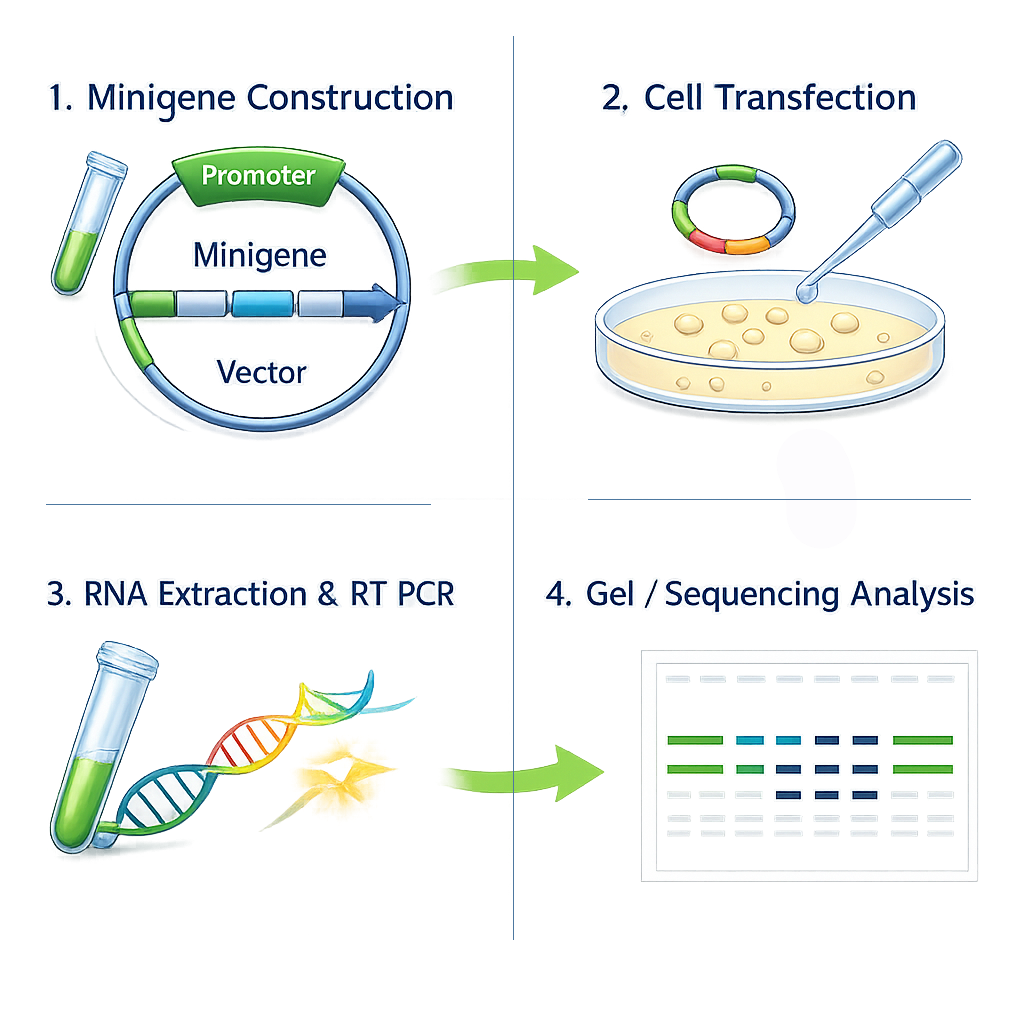
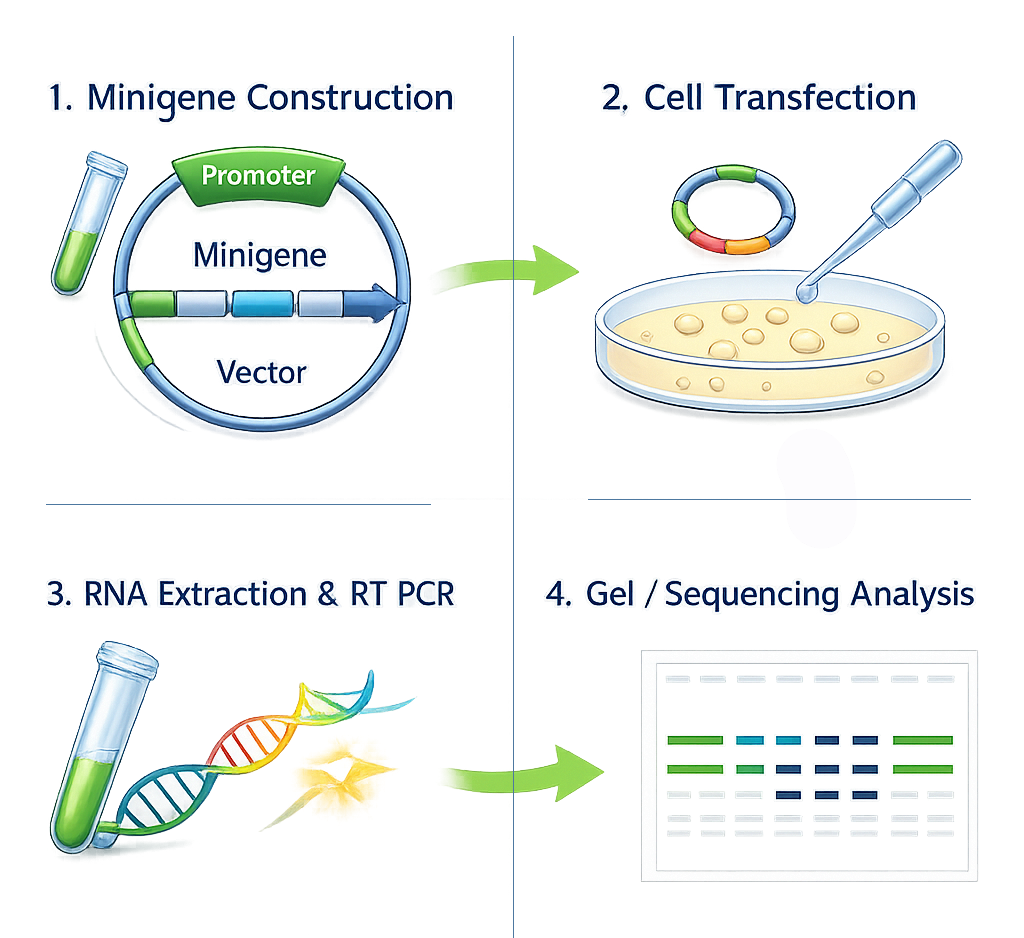
version w/o commercial

diff --git a/frontend/src/sections/Technology/Technology.jsx b/frontend/src/sections/Technology/Technology.jsx
@@ -18,7 +18,7 @@ const Technology = () => {
             role="tab"
             aria-selected={active === "crispr"}
           >
-            CRISPR-Select
+            CRISPR Assay
           </button>
 
           <button
@@ -27,7 +27,7 @@ const Technology = () => {
             role="tab"
             aria-selected={active === "minigene"}
           >
-            MiniGene
+            MiniGene Assay
           </button>
         </div>
 
@@ -40,25 +40,23 @@ const Technology = () => {
 const CrisprContent = () => (
   <div className="tech-layout">
     <div className="tech-left">
-      <h2>Functional Variant Interpretation Using CRISPR-Select</h2>
+      <h2>Functional Variant Interpretation Using CRISPR-based Assays</h2>
 
       <div className="info-block">
         <p>
-          Our platform employs CRISPR-Select, a precision genome editing platform 
-          that enables direct functional assessment of genetic variants within 
+          Our platform employs CRISPR-based genome editing and sequencing-based readout
+          to enable direct functional assessment of genetic variants within 
           their endogenous genomic context.
         </p>
         <p>
-          By introducing specific variants into human cells and measuring their 
-          biological consequences, CRISPR-Select provides quantitative 
+          By introducing defined variants into human cells and measuring their 
+          biological consequences, our approach provides quantitative 
           functional evidence that supports variant classification framework.
         </p>
-        <p>
-          A schematic overview of the CRISPR-Select workflow is provided to 
-          illustrate the editing, selection, and sequencing-based readout process.
-        </p>
       </div>
+    </div>
 
+    <div className="crispr-right">
       <div className="gene-container">
         <h3 className='gene-title'>Gene Coverage</h3>
         <div className="gene-grid">
@@ -83,10 +81,7 @@ const CrisprContent = () => (
         </p>  
       </div>
     </div>
-    <div className="crispr-right">
-      <img src={assets.crispr} alt="CRISPR" className="crispr-figure" />
     </div>
-  </div>
 )
 
 const MinigeneContent = () => (

diff --git a/frontend/src/sections/Publication/Publication.jsx b/frontend/src/sections/Publication/Publication.jsx
@@ -7,29 +7,11 @@ const Publication = () => {
     <section id="publication" className='publi-section'>
         <div className="publi-container">
             <div className="publication-left">
-                <p>
-                    Our BRCA2 functional classification framework was published in the <i>Journal of Clinical Investigation</i>.
-                    <br />This study established a validated functional framework for distinguishing neutral and deleterious variants.
-                </p>
                 <h3>DISCLAIMER</h3>
                 <p>Functional assay results provide experimental evidence to support variant interpretation and should 
                     <br />be integrated with clinical, genetic, and familial information in accordance with ACMG guidelines. 
                     <br /><b className='final-line'>Final variant classification remains the responsibility of the requester.</b>
                 </p>
-            </div>
-
-            <div className="publication-right">
-                <img src={assets.jci} alt="JCI article" />
-
-                <a 
-                href="https://www.jci.org/articles/view/181879"
-                target="_blank"
-                rel="noopener noreferrer"
-                >
-                jci.org
-                </a>
-
-                <p>Bose et al, 2025.</p>
             </div>
         </div>
         

diff --git a/frontend/src/sections/Hero/Hero.jsx b/frontend/src/sections/Hero/Hero.jsx
@@ -31,7 +31,7 @@ const Hero = () => {
         <div className="about-us">
           <h1>About Us</h1>
           <p>
-            We provide functional classification of genetic variants using CRISPR-based precision genome editing (CRISPR-Select) and MiniGene splice assays. 
+            We provide functional classification of genetic variants using CRISPR-based precision genome editing and MiniGene splice assays. 
             The service is a part of the MDxCore unit at the Department of Clinical Biochemistry, Rigshospitalet, Copenhagen University Hospital. 
             <br />
             <br />Our platform provides experimental evidence to support clinical variant interpretation 

diff --git a/frontend/src/sections/Steps/Steps.jsx b/frontend/src/sections/Steps/Steps.jsx
@@ -44,7 +44,7 @@ const Steps = () => {
                         <br /><b>Turnaround Time</b>
                     </p>
                     <ul className="list">
-                        <li>CRISPR-Select assay: 6–8 weeks</li>
+                        <li>Variant classification assay: 6–8 weeks</li>
                         <li>MiniGene assay: Approximately 3 months</li>
                     </ul>
                 </div>

diff --git a/frontend/src/pages/Home.jsx b/frontend/src/pages/Home.jsx
@@ -1,5 +1,4 @@
 import Hero from "../sections/Hero/Hero";
-import AboutUs from "../sections/AboutUs/AboutUs";
 import Technology from "../sections/Technology/Technology";
 import Publication from "../sections/Publication/Publication";
 import Team from "../sections/Team/Team";

diff --git a/frontend/src/sections/Technology/Technology.css b/frontend/src/sections/Technology/Technology.css
@@ -161,11 +161,12 @@
   display: flex;
   justify-content: center;
   margin-top: -20px;
+  margin-left: -60px;
 }
 
 .minigene-figure {
   width: 100%;
-  max-width: 500px;
+  max-width: 420px;
   height: auto;
   display: block;
 }
